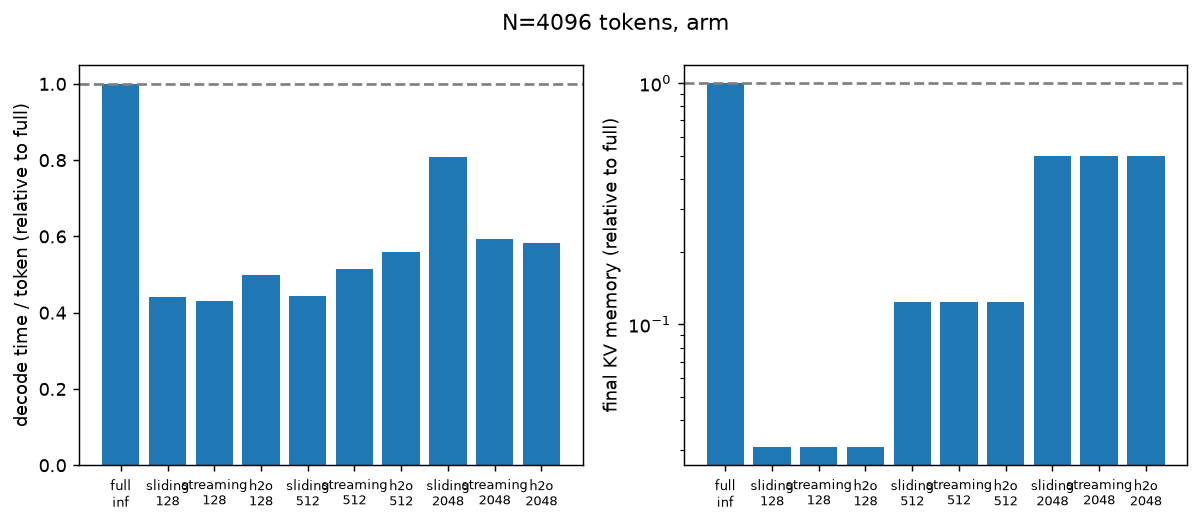
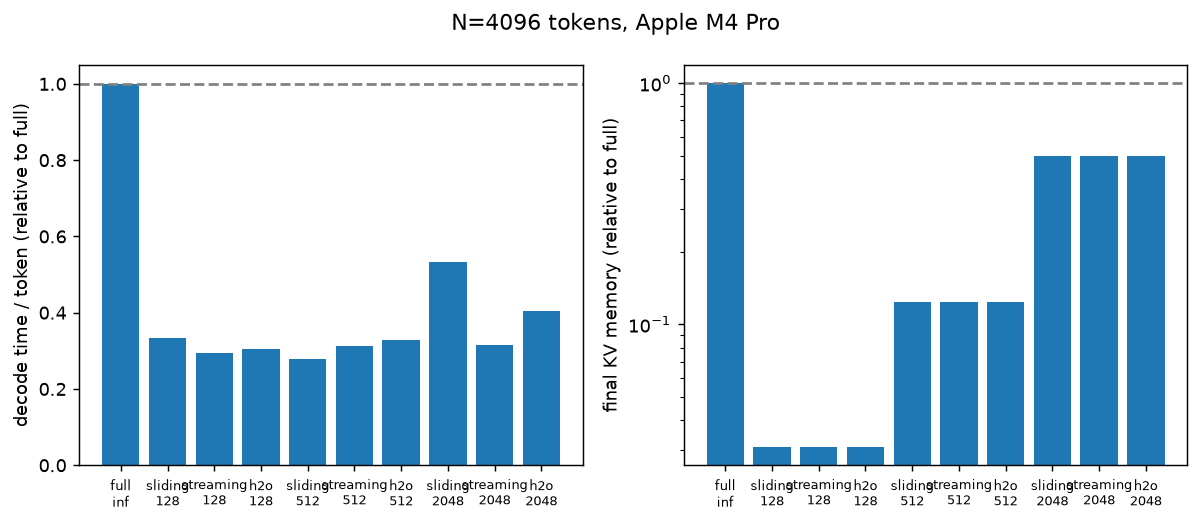
Fix H2O chunk cap wiping heavy hitters; add measured findings
StreamingRunner capped the chunk size at budget - n_sink, but only the
sink-aware policy defines n_sink. For H2O a chunk could equal the budget,
so each reservation evicted to zero entries and discarded every heavy
hitter. Policies now expose min_retained(budget): 0 for sliding, n_sink
for sink-aware, and half the budget for H2O. The chunk cap and budget
validation use it. The regression test now checks that H2O keeps entries
older than the budget window.

The measured configurations (budget >= 128, chunk 32/64) never hit the
cap, so the saved quality results are unchanged.

Also rerun the benchmark with the current script (adds model/device),
regenerate the report, fix the MPS peak-memory label, and add a key
measured findings section to the writeup.

Changed region(s): [[0.1233, 0.2748, 0.4933, 0.7023], [0.37, 0.0305, 0.6475, 0.0611]]

diff --git a/kvcache/policies.py b/kvcache/policies.py
@@ -21,6 +21,10 @@ class EvictionPolicy:
     def keep_indices(self, lc: LayerKV, budget: int) -> torch.Tensor:
         raise NotImplementedError
 
+    def min_retained(self, budget: int) -> int:
+        """Old entries that must survive a chunk reservation; caps the chunk size."""
+        return 0
+
     def __repr__(self):
         return self.name
 
@@ -49,6 +53,9 @@ class StreamingLLM(EvictionPolicy):
         self.n_sink = n_sink
         self.name = f"streaming(sink={n_sink})"
 
+    def min_retained(self, budget):
+        return self.n_sink
+
     def keep_indices(self, lc, budget):
         Hkv, T = lc.pos.shape
         dev = lc.pos.device
@@ -68,6 +75,11 @@ class H2O(EvictionPolicy):
             raise ValueError("recent_ratio must be between 0 and 1")
         self.recent_ratio = recent_ratio
         self.name = f"h2o(recent={recent_ratio})"
+
+    def min_retained(self, budget):
+        # A chunk as large as the budget would evict to zero entries and erase
+        # every heavy hitter; keep at least half the budget across reservations.
+        return budget // 2
 
     def keep_indices(self, lc, budget):
         Hkv, T = lc.pos.shape

diff --git a/kvcache/streaming.py b/kvcache/streaming.py
@@ -24,7 +24,7 @@ class StreamingRunner:
         if not isinstance(self.policy, NoEviction):
             if any(b is None for b in self.layer_budgets):
                 raise ValueError("an eviction policy requires a budget for every layer")
-            if any(b <= getattr(self.policy, "n_sink", 0) for b in self.layer_budgets):
+            if any(b <= self.policy.min_retained(b) for b in self.layer_budgets):
                 raise ValueError("budget must leave space beyond the protected sinks")
         self.reset()
 
@@ -40,7 +40,7 @@ class StreamingRunner:
         if cs < 1:
             raise ValueError("chunk_size must be positive")
         if not isinstance(self.policy, NoEviction):
-            cs = min(cs, min(self.layer_budgets) - getattr(self.policy, "n_sink", 0))
+            cs = min(cs, min(b - self.policy.min_retained(b) for b in self.layer_budgets))
         return cs
 
     def _reserve(self, incoming):

diff --git a/scripts/benchmark.py b/scripts/benchmark.py
@@ -75,7 +75,7 @@ def main():
         pk = r["rel_peak_mem_excl_weights"]
         print(f"{r['policy']:10s} budget={str(r['budget']):6s} prefill x{r['rel_prefill_time']:.2f} "
               f"decode/tok x{r['rel_decode_time']:.2f} KV mem x{r['rel_kv_memory']:.3f} "
-              f"peak(excl. weights) {'x%.2f' % pk if pk is not None else 'n/a (CPU)'}")
+              f"peak(excl. weights) {'x%.2f' % pk if pk is not None else 'n/a (CUDA only)'}")
 
     save_json({"hardware": hw, "model": args.model, "device": str(model.device), "n_tokens": args.n_tokens, "n_decode": args.n_decode,
                "chunk_size": args.chunk_size, "dtype": str(model.dtype), "rows": rows},

diff --git a/tests/test_regressions.py b/tests/test_regressions.py
@@ -19,6 +19,10 @@ def test_budget_during_attention(model, ids, policy, chunk):
     assert runner.peak_kv_bytes <= 2*3*2*24*16*4
     if policy == "streaming":
         assert all(lc.pos[0, :4].tolist() == [0, 1, 2, 3] for lc in runner.cache.layers)
+    if policy == "h2o":
+        # Heavy hitters must survive chunks as large as the budget.
+        oldest_recent = runner.cache.n_seen - 24
+        assert all((lc.pos < oldest_recent).any() for lc in runner.cache.layers)
 
 def test_layer_budgets(model, ids):
     runner = StreamingRunner(model, make_policy("h2o"), layer_budgets=[12, 24, 36], chunk_size=4)

diff --git a/WRITEUP.md b/WRITEUP.md
@@ -12,6 +12,35 @@ The numerical tables, hardware details, attention summaries, and plots are in
 Individual retrieval responses, per-head retention, document hashes, complete
 loss traces, and parameters remain available for inspection.
 
+## Key measured findings
+
+All numbers are FP32 on Apple GPU and copied from the report.
+
+- **Sinks are real and content-insensitive.** On natural text, 30.5% of attention
+  mass lands on the first four keys, against 0.70% under causal uniform attention.
+  Random IDs (29.8%) and prose with a replaced prefix (30.4%) keep the effect;
+  shuffled prose lowers it to 23.0%. Token 0 receives 174× its uniform share,
+  and 90% of a query's mass covers 11.1% of available keys on average.
+- **Removing sinks, not a small budget, breaks the sliding window.** Full-cache
+  PPL is 17.69. At B=128 (3 MiB instead of 72 MiB), sink-aware reaches 21.83 and
+  heavy-hitter 21.70, while sliding reaches 157.4. Sliding at B=2048 is worst of
+  all (355.0): its scored suffix begins exactly where the window first drops the
+  sinks, and the loss trace shows a transient near 10³ before settling around 10².
+- **Heavy-hitter gives the best perplexity, not the best retrieval.** H2O has the
+  lowest PPL at every budget (18.68 vs 19.70 at B=512). Yet at B=256 it retrieves
+  0/6 passkeys versus 2/6 for sink-aware, and at B=1024 2/6 versus 4/6: halving
+  the recent window evicts a needle that no query has attended to yet. No
+  compressed budget below 2,048 retrieved a needle at depth 0.1 under any policy.
+- **Position handling must be consistent.** With identical retained needles,
+  recompute and absolute reach 16.70 and 16.71 post-eviction PPL with 6/6
+  retrieval; the stale negative control reaches 275.0 with 0/6.
+- **Compression saves decode time as well as memory.** At 4,096 tokens, bounded
+  caches decode in 0.28–0.53× the full-cache time per token. This is one
+  warmed-up run; an earlier run measured 0.43–0.81×, so treat timing as noisy.
+
+These counts come from six correlated trials per configuration; they show
+direction, not precise rates.
+
 ## 3.1 Model and correctness
 
 The manual Qwen2 forward reuses the Hugging Face embeddings, attention projections,

diff --git a/results/REPORT.md b/results/REPORT.md
@@ -54,15 +54,15 @@ The independent rotation-identity regression test verifies the positional correc
 | Policy | Budget | Decode time relative to full | KV memory relative to full |
 |---|---:|---:|---:|
 | full | full | 1.000 | 1.000 |
-| sliding | 128 | 0.441 | 0.031 |
-| streaming | 128 | 0.430 | 0.031 |
-| h2o | 128 | 0.499 | 0.031 |
-| sliding | 512 | 0.444 | 0.124 |
-| streaming | 512 | 0.514 | 0.124 |
-| h2o | 512 | 0.559 | 0.124 |
-| sliding | 2048 | 0.809 | 0.496 |
-| streaming | 2048 | 0.593 | 0.496 |
-| h2o | 2048 | 0.582 | 0.496 |
+| sliding | 128 | 0.334 | 0.031 |
+| streaming | 128 | 0.295 | 0.031 |
+| h2o | 128 | 0.305 | 0.031 |
+| sliding | 512 | 0.279 | 0.124 |
+| streaming | 512 | 0.312 | 0.124 |
+| h2o | 512 | 0.329 | 0.124 |
+| sliding | 2048 | 0.533 | 0.496 |
+| streaming | 2048 | 0.315 | 0.496 |
+| h2o | 2048 | 0.405 | 0.496 |
 
 Single warmed-up timing run, synthetic repeated decode token; timings are descriptive.
 GPU/CPU workspaces, weights, and allocator reservations are not KV memory.

diff --git a/README.md b/README.md
@@ -90,7 +90,10 @@ Do not mix tiny smoke outputs with the measured result directory.
   query positions and exists only as a negative control.
 - Eviction reserves incoming space **before attention**, so every layer's
   materialized cache has at most its budget's entries. `chunk_size=32` is a
-  block approximation; use 1 for online eviction. The chunk is capped to fit.
+  block approximation; use 1 for online eviction. The chunk is capped so each
+  reservation keeps the policy's protected entries: the four sinks for streaming,
+  and at least half the budget for H2O, so a large chunk cannot erase every
+  heavy hitter. A budget of only a few entries can still leave no room for them.
 - `prefill()` retains only the final logits, and `feed_nll()` computes losses
   by chunk. Diagnostic `feed()` intentionally retains all logits.
 - Cache-byte measurements include K and V. Position/score metadata is reported
